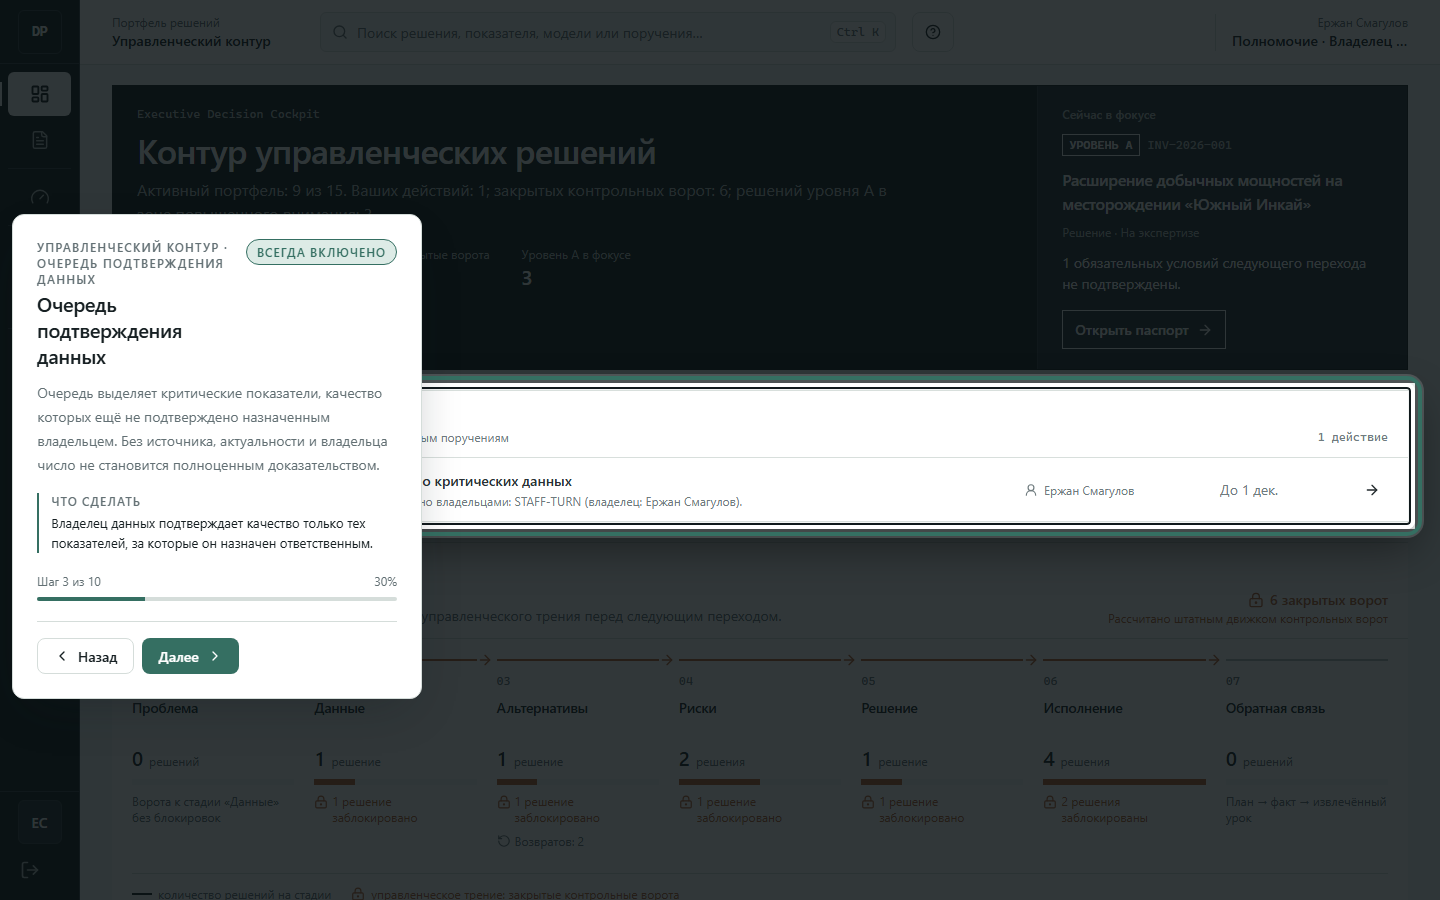
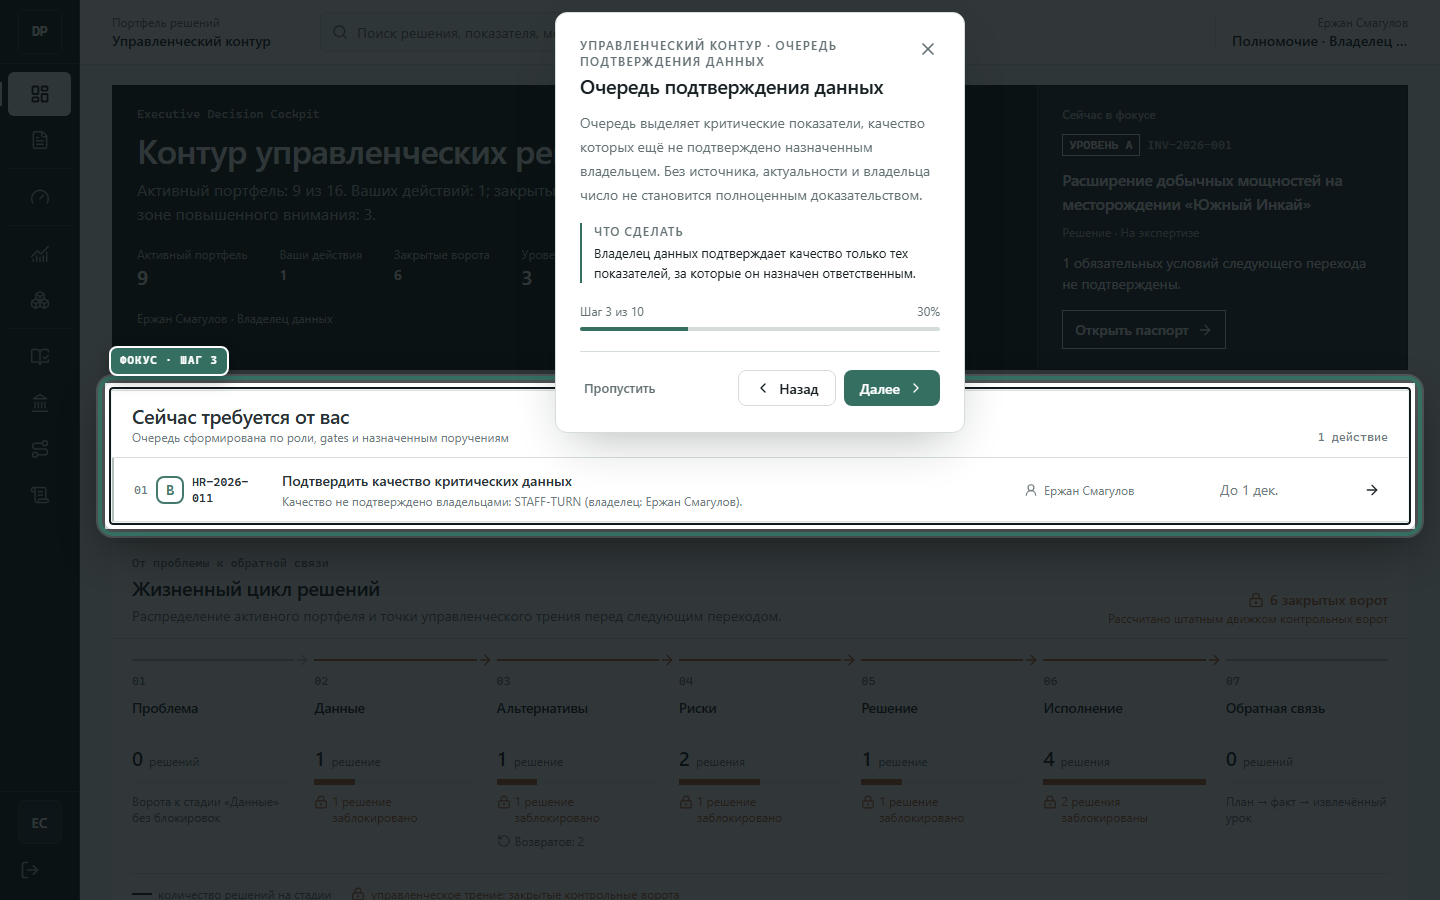
onboarding: allow dismissing current page tour

Changed region(s): [[0.0, 0.2178, 0.3125, 0.7778], [0.375, 0.0, 0.6875, 0.4978]]

diff --git a/components/onboarding/tour-surface.tsx b/components/onboarding/tour-surface.tsx
@@ -36,7 +36,6 @@ interface TourSurfaceProps {
   requireTargetAction?: boolean;
   closing?: boolean;
   targetPending?: boolean;
-  mandatory?: boolean;
   roleBrief?: {
     label: string;
     purpose: string;
@@ -197,7 +196,6 @@ export function TourSurface({
   requireTargetAction = false,
   closing = false,
   targetPending = false,
-  mandatory = false,
   roleBrief,
 }: TourSurfaceProps) {
   const cardRef = useRef<HTMLDivElement>(null);
@@ -237,7 +235,7 @@ export function TourSurface({
   }, [mounted, requireTargetAction, step.id, step.target]);
 
   function trapFocus(event: React.KeyboardEvent<HTMLDivElement>) {
-    if (event.key !== "Tab" || requireTargetAction || mandatory) return;
+    if (event.key !== "Tab" || requireTargetAction) return;
     const focusable = Array.from(
       event.currentTarget.querySelectorAll<HTMLElement>(
         'button:not([disabled]), a[href], [tabindex]:not([tabindex="-1"])'
@@ -260,9 +258,8 @@ export function TourSurface({
 
   if (!mounted) return null;
 
-  const dimmerClass = `onboarding-dimmer fixed z-[90] transition-[top,left,width,height] duration-[260ms] ease-[cubic-bezier(0.22,1,0.36,1)] motion-reduce:transition-none ${
-    mandatory ? "pointer-events-none" : "pointer-events-auto"
-  }`;
+  const dimmerClass =
+    "onboarding-dimmer pointer-events-auto fixed z-[90] transition-[top,left,width,height] duration-[260ms] ease-[cubic-bezier(0.22,1,0.36,1)] motion-reduce:transition-none";
   const progress = ((stepIndex + 1) / stepCount) * 100;
 
   return createPortal(
@@ -312,7 +309,7 @@ export function TourSurface({
               Фокус · шаг {stepIndex + 1}
             </span>
           </div>
-          {!mandatory && !allowTargetInteraction && (
+          {!allowTargetInteraction && (
             <div
               className="pointer-events-auto fixed z-[92]"
               style={targetRect}
@@ -322,7 +319,7 @@ export function TourSurface({
         </>
       ) : (
         <div
-          className={`onboarding-dimmer fixed inset-0 z-[90] ${mandatory ? "pointer-events-none" : "pointer-events-auto"}`}
+          className="onboarding-dimmer pointer-events-auto fixed inset-0 z-[90]"
           aria-hidden="true"
           data-testid="onboarding-dimmer"
         />
@@ -331,7 +328,7 @@ export function TourSurface({
       <div
         ref={cardRef}
         role="dialog"
-        aria-modal={!mandatory && !requireTargetAction}
+        aria-modal={!requireTargetAction}
         aria-labelledby="tour-step-title"
         aria-describedby="tour-step-body"
         tabIndex={-1}
@@ -345,7 +342,6 @@ export function TourSurface({
           transform: position ? undefined : "translate(-50%, -50%)",
         }}
         data-placement={position?.placement ?? "center"}
-        data-mandatory={mandatory ? "true" : "false"}
       >
         <div className="flex items-start justify-between gap-4">
           <div>
@@ -355,20 +351,14 @@ export function TourSurface({
               {step.title}
             </h2>
           </div>
-          {mandatory ? (
-            <span className="shrink-0 rounded-full border border-accent bg-accent-soft px-2.5 py-1 text-meta font-semibold uppercase tracking-[0.08em] text-accent">
-              Всегда включено
-            </span>
-          ) : (
-            <button
-              type="button"
-              onClick={onDismiss}
-              className="-mr-2 -mt-2 flex h-10 w-10 shrink-0 items-center justify-center rounded-control text-muted hover:bg-canvas hover:text-text focus-visible:outline-none focus-visible:ring-2 focus-visible:ring-accent"
-              aria-label="Закрыть текущую инструкцию"
-            >
-              <X className="h-5 w-5" aria-hidden="true" />
-            </button>
-          )}
+          <button
+            type="button"
+            onClick={onDismiss}
+            className="-mr-2 -mt-2 flex h-10 w-10 shrink-0 items-center justify-center rounded-control text-muted hover:bg-canvas hover:text-text focus-visible:outline-none focus-visible:ring-2 focus-visible:ring-accent"
+            aria-label="Закрыть текущую инструкцию"
+          >
+            <X className="h-5 w-5" aria-hidden="true" />
+          </button>
         </div>
 
         <div key={step.id} data-tour-step-content>
@@ -448,15 +438,13 @@ export function TourSurface({
             </>
           ) : (
             <>
-              {!mandatory && (
-                <button
-                  type="button"
-                  onClick={onSkip}
-                  className="mr-auto min-h-10 px-1 text-table font-medium text-muted hover:text-text hover:underline focus-visible:outline-none focus-visible:ring-2 focus-visible:ring-accent"
-                >
-                  Пропустить
-                </button>
-              )}
+              <button
+                type="button"
+                onClick={onSkip}
+                className="mr-auto min-h-10 px-1 text-table font-medium text-muted hover:text-text hover:underline focus-visible:outline-none focus-visible:ring-2 focus-visible:ring-accent"
+              >
+                Пропустить
+              </button>
               <Button type="button" variant="secondary" onClick={onBack} disabled={stepIndex === 0}>
                 <ChevronLeft className="h-4 w-4" aria-hidden="true" />
                 Назад
@@ -467,7 +455,7 @@ export function TourSurface({
                 </span>
               ) : (
                 <Button type="button" onClick={onNext}>
-                  {isLast ? (mandatory ? "Сначала" : "Готово") : "Далее"}
+                  {isLast ? "Готово" : "Далее"}
                   {!isLast && <ChevronRight className="h-4 w-4" aria-hidden="true" />}
                 </Button>
               )}

diff --git a/components/onboarding/onboarding-provider.tsx b/components/onboarding/onboarding-provider.tsx
@@ -89,6 +89,10 @@ function pageTourAutoStartIsBypassed(): boolean {
   }
 }
 
+function pageVisitKey(currentRoute: string, tour: TourDefinition): string {
+  return `${currentRoute}:${tour.id}:v${tour.version}`;
+}
+
 function routeMatches(pattern: string, currentRoute: string): boolean {
   const [patternPath = "", patternQuery = ""] = pattern.split("?");
   const [currentPath = "", currentQuery = ""] = currentRoute.split("?");
@@ -181,6 +185,8 @@ export function OnboardingProvider({
   const closeTimer = useRef(0);
   const closingRef = useRef(false);
   const requiredMissingSteps = useRef(new Set<string>());
+  const activePageVisit = useRef<string | null>(null);
+  const suppressedPageVisit = useRef<string | null>(null);
 
   const [progress, setProgress] = useState<TourProgressRecord[]>([]);
 
@@ -248,6 +254,10 @@ export function OnboardingProvider({
   const startTour = useCallback(
     (tour: TourDefinition) => {
       if (!eligibleForRole(tour, role)) return;
+      if (tour.mode === "PAGE") {
+        activePageVisit.current = pageVisitKey(currentRoute, tour);
+        suppressedPageVisit.current = null;
+      }
       previousFocus.current = document.activeElement instanceof HTMLElement ? document.activeElement : null;
       const eligibleSteps = runnableSteps(tour, role);
       if (eligibleSteps.length === 0) return;
@@ -276,7 +286,7 @@ export function OnboardingProvider({
       }
       setProgressRevision((value) => value + 1);
     },
-    [progressKey, role, userId]
+    [currentRoute, progressKey, role, userId]
   );
 
   const startTourById = useCallback(
@@ -292,12 +302,16 @@ export function OnboardingProvider({
   const finishWith = useCallback(
     (status: "completed" | "skipped" | "dismissed") => {
       if (!activeTour || closingRef.current) return;
+      if (activeTour.mode === "PAGE" && pageTour) {
+        suppressedPageVisit.current = pageVisitKey(currentRoute, pageTour);
+        activePageVisit.current = null;
+      }
       setTourState(progressKey(activeTour), { status });
       writeActiveSession(null);
       setProgressRevision((value) => value + 1);
       closeTour();
     },
-    [activeTour, closeTour, progressKey]
+    [activeTour, closeTour, currentRoute, pageTour, progressKey]
   );
 
   const moveToStep = useCallback(
@@ -312,17 +326,6 @@ export function OnboardingProvider({
         candidate += direction;
       }
       if (candidate >= activeTour.steps.length) {
-        if (activeTour.mode === "PAGE") {
-          setStepIndex(0);
-          setTargetRect(null);
-          setTargetReady(false);
-          setTourState(progressKey(activeTour), {
-            status: "in_progress",
-            currentStepId: activeTour.steps[0]!.id,
-          });
-          setProgressRevision((value) => value + 1);
-          return;
-        }
         finishWith(requiredMissingSteps.current.size > 0 ? "dismissed" : "completed");
         return;
       }
@@ -386,13 +389,15 @@ export function OnboardingProvider({
 
   useEffect(() => {
     if (!restorationComplete || !pageTour || pageTourAutoStartIsBypassed()) return;
+    const visitKey = pageVisitKey(currentRoute, pageTour);
+    if (suppressedPageVisit.current === visitKey) return;
     if (activeTour?.mode !== "PAGE" && activeTour !== null) return;
-    if (activeTour?.id === pageTour.id) return;
+    if (activeTour?.mode === "PAGE" && activePageVisit.current === visitKey) return;
     const frame = window.requestAnimationFrame(() => {
       startTour(pageTour);
     });
     return () => window.cancelAnimationFrame(frame);
-  }, [activeTour, pageTour, restorationComplete, startTour]);
+  }, [activeTour, currentRoute, pageTour, restorationComplete, startTour]);
 
   const activeStep = activeTour?.steps[stepIndex] ?? null;
 
@@ -600,7 +605,6 @@ export function OnboardingProvider({
       if (target?.matches("input, textarea, select, [contenteditable='true']")) return;
       if (event.key === "Escape") {
         event.preventDefault();
-        if (activeTour.mode === "PAGE" && !pageTourAutoStartIsBypassed()) return;
         finishWith("dismissed");
       }
       if (event.key === "ArrowRight" && !(role === "GUEST" && activeStep?.advance === "target-click")) {
@@ -699,7 +703,6 @@ export function OnboardingProvider({
           closing={closing}
           targetPending={!targetReady && activeStep.target !== "body"}
           roleBrief={activeTour.mode === "PAGE" ? roleBrief : undefined}
-          mandatory={activeTour.mode === "PAGE"}
         />
       )}
     </OnboardingContext.Provider>

diff --git a/e2e/onboarding-screenshots.spec.ts b/e2e/onboarding-screenshots.spec.ts
@@ -1,7 +1,6 @@
 import { expect, test, type Locator, type Page } from "@playwright/test";
 
 const ONBOARDING_STORAGE_PREFIX = "decision-passport:onboarding:";
-const E2E_AUTO_START_BYPASS_KEY = "decision-passport:onboarding:e2e-bypass";
 const ACTIVE_TOUR_SESSION_KEY = "decision-passport:onboarding:active-tour";
 const TOUR = '[data-testid="onboarding-tour"]';
 const SCREENSHOT_DIRECTORY = ".artifacts/onboarding-final";
@@ -104,7 +103,6 @@ async function advanceTourToStep(
   expectedStepId: string,
   maximumSteps = 24
 ): Promise<Locator> {
-  await page.evaluate((key) => localStorage.removeItem(key), E2E_AUTO_START_BYPASS_KEY);
   if (!(await page.locator(TOUR).isVisible().catch(() => false))) await page.reload();
   const tour = await waitForTour(page);
 
@@ -145,8 +143,7 @@ async function skipTourIfPresent(page: Page, waitForAppearance = false): Promise
 
   if (!visible) return;
 
-  await page.evaluate((key) => localStorage.setItem(key, "1"), E2E_AUTO_START_BYPASS_KEY);
-  await page.keyboard.press("Escape");
+  await tour.getByRole("button", { name: "Пропустить", exact: true }).click();
   await expect(tour).toBeHidden();
   await expect(tour).not.toBeAttached();
 }
@@ -167,7 +164,6 @@ async function clearOnlyOnboardingProgress(page: Page): Promise<void> {
 async function loginAs(page: Page, userName: string): Promise<void> {
   await expect(page).toHaveURL(/\/login(?:\?.*)?$/);
   await skipTourIfPresent(page);
-  await page.evaluate((key) => localStorage.removeItem(key), E2E_AUTO_START_BYPASS_KEY);
 
   const loginButton = page.getByRole("button", {
     name: new RegExp(`^Войти как ${escapeRegExp(userName)}(?:,|$)`),

diff --git a/components/onboarding/onboarding-help.tsx b/components/onboarding/onboarding-help.tsx
@@ -161,11 +161,11 @@ function ConnectedOnboardingHelp({
                 className="rounded-control border border-accent bg-accent-soft px-3.5 py-3"
               >
                 <h3 id="training-progress-title" className="text-table font-semibold text-text">
-                  Постоянное обучение включено
+                  Обучение всегда доступно
                 </h3>
                 <p className="mt-1.5 text-meta leading-5 text-muted">
-                  На каждой доступной странице автоматически работает её инструкция. Закрыть или
-                  пропустить PAGE-обучение нельзя; после последнего шага оно начинается сначала.
+                  Инструкция автоматически открывается при переходе на каждую страницу. Её можно
+                  закрыть для текущего просмотра и в любой момент вернуть кнопкой «Обучение по этой странице».
                 </p>
                 <p className="mt-2 font-technical text-meta font-semibold text-accent">
                   {pageTours.length} инструкций доступны вашей роли

diff --git a/README.md b/README.md
@@ -104,13 +104,13 @@ npm.cmd run dev
 
 Платформа имеет три независимых режима обучения:
 
-- **PAGE** постоянно сопровождает текущую страницу или вкладку: автоматически запускается при каждом переходе, не закрывается и после последнего шага начинается сначала;
+- **PAGE** автоматически запускается при каждом переходе на страницу или вкладку; её можно закрыть для текущего просмотра и повторно открыть из центра обучения;
 - **ROLE** проводит через сквозной рабочий маршрут конкретной роли;
 - **THESIS / JURY** за 10–15 минут раскрывает научную модель от управленческого вопроса до post-evaluation, уроков и baseline → pilot.
 
 Кнопка «Обучение» доступна на `/login` и в верхней панели приложения. Через неё можно повторить текущую инструкцию, запустить ролевой или jury-сценарий и сбросить только учебный прогресс. Решения, пользователи, показатели и аудит при этом не изменяются.
 
-PAGE-обучение работает в обязательном постоянном режиме: кнопки закрытия и пропуска отсутствуют, `Escape` не отключает инструкцию, а переход на другую страницу заменяет текущий tour соответствующим новым. ROLE и THESIS остаются запускаемыми из центра обучения; после их завершения автоматически возвращается PAGE-инструкция. Центральный registry находится в [lib/onboarding](lib/onboarding), стабильные UI-контракты используют `data-tour`, а карта покрытия — в [ONBOARDING-COVERAGE.md](ONBOARDING-COVERAGE.md).
+PAGE-обучение открывается автоматически при каждом новом посещении страницы. Крестик, `Escape`, «Пропустить» или «Готово» закрывают его до следующего перехода, поэтому пользователь может свободно изучить и использовать экран; повторный запуск на той же странице доступен через «Обучение». ROLE и THESIS запускаются из центра обучения; после их завершения PAGE-инструкция появляется только при следующем переходе или явном повторном запуске. Центральный registry находится в [lib/onboarding](lib/onboarding), стабильные UI-контракты используют `data-tour`, а карта покрытия — в [ONBOARDING-COVERAGE.md](ONBOARDING-COVERAGE.md).
 
 Самостоятельный сценарий защиты описан в [JURY-SELF-GUIDED-SCENARIO.md](JURY-SELF-GUIDED-SCENARIO.md), визуальный протокол — в [ONBOARDING-VISUAL-QA.md](ONBOARDING-VISUAL-QA.md), эталонные кадры создаются в `.artifacts/onboarding-final/`.
 

diff --git a/ONBOARDING-COVERAGE.md b/ONBOARDING-COVERAGE.md
@@ -510,7 +510,7 @@ Recommended ROLE-tour route sequences derived from those responsibilities:
 - BOARD_MEMBER: dashboard → registry → passport alternatives/risk/economics/AI → explicit human verdict → audit.
 - ADMIN: dashboard → users/roles → bodies → gate policy → audit/models/roadmap.
 
-These ROLE tours are cross-page scenarios. They do not replace any mandatory PAGE tour.
+These ROLE tours are cross-page scenarios. They do not replace the automatic PAGE guidance available on each route.
 
 The THESIS layer contains two complementary narratives: `thesis-jury-methodology` follows the complete decision lifecycle, while `thesis-evidence-natures` separately distinguishes fact, forecast and assumption so users do not present unlike forms of evidence as interchangeable.
 
@@ -623,9 +623,9 @@ The following remain separate release checks and do not alter the source-coverag
 
 1. Dynamic decision and indicator routes must use valid seeded ids during ROLE/THESIS navigation.
 2. Optional RBAC targets must skip without delay; required missing targets must emit diagnostics and avoid deadlock.
-3. PAGE tours are mandatory and continuous: stored progress cannot suppress auto-start, close/skip are absent, and the final step cycles to the first. ROLE/THESIS progress remains isolated by identity and version.
+3. PAGE tours auto-start on every new page visit regardless of stored progress. Close, skip, `Escape` and completion dismiss the current visit without an immediate restart; navigation or explicit replay starts guidance again. ROLE/THESIS progress remains isolated by identity and version.
 4. Replay, role tour, methodology tour, progress display and onboarding-only reset must remain available from Help.
-5. Runtime E2E must cover permanent restart on return, resistance to `Escape`, absence of close/skip, role variance, missing targets, route transitions and the 1366×768 viewport.
+5. Runtime E2E must cover dismissal for the current visit, auto-start after navigation and return, explicit replay, role variance, missing targets, route transitions and the 1366×768 viewport.
 6. Visual placement and keyboard/focus behavior require browser-level verification.
 
 ## Post-implementation coverage conclusion

diff --git a/ONBOARDING-VISUAL-QA.md b/ONBOARDING-VISUAL-QA.md
@@ -17,11 +17,11 @@
 - Связь с управленческим процессом или методикой указана там, где она содержательно важна.
 - Карточка остаётся внутри viewport и по возможности не перекрывает target.
 - Затемнение сохраняет контекст страницы; target и focus outline читаются без glow и blur.
-- PAGE-инструкция не содержит «Пропустить» и «Закрыть»: доступны «Назад / Далее / Сначала», мышь и клавиатура.
-- `Escape` не отключает обязательный PAGE-tour; Tab может перейти из немодальной карточки к рабочему интерфейсу.
+- PAGE-инструкция содержит «Закрыть», «Пропустить», «Назад / Далее / Готово» и полностью управляется клавиатурой.
+- Крестик и `Escape` закрывают PAGE-tour для текущего просмотра; после закрытия рабочий интерфейс доступен без затемнения.
 - При `prefers-reduced-motion` переходы происходят без анимации.
 - Отсутствующий RBAC-target пропускается; обязательный отсутствующий target пишет диагностику и не блокирует интерфейс.
-- PAGE-tour автоматически работает при каждом переходе и циклически возвращается к первому шагу; ROLE/THESIS после завершения возвращают пользователя к PAGE-инструкции.
+- PAGE-tour автоматически открывается при каждом новом переходе, не перезапускается сразу после закрытия на том же экране и доступен для явного повтора через центр обучения.
 
 ## Golden-набор
 
